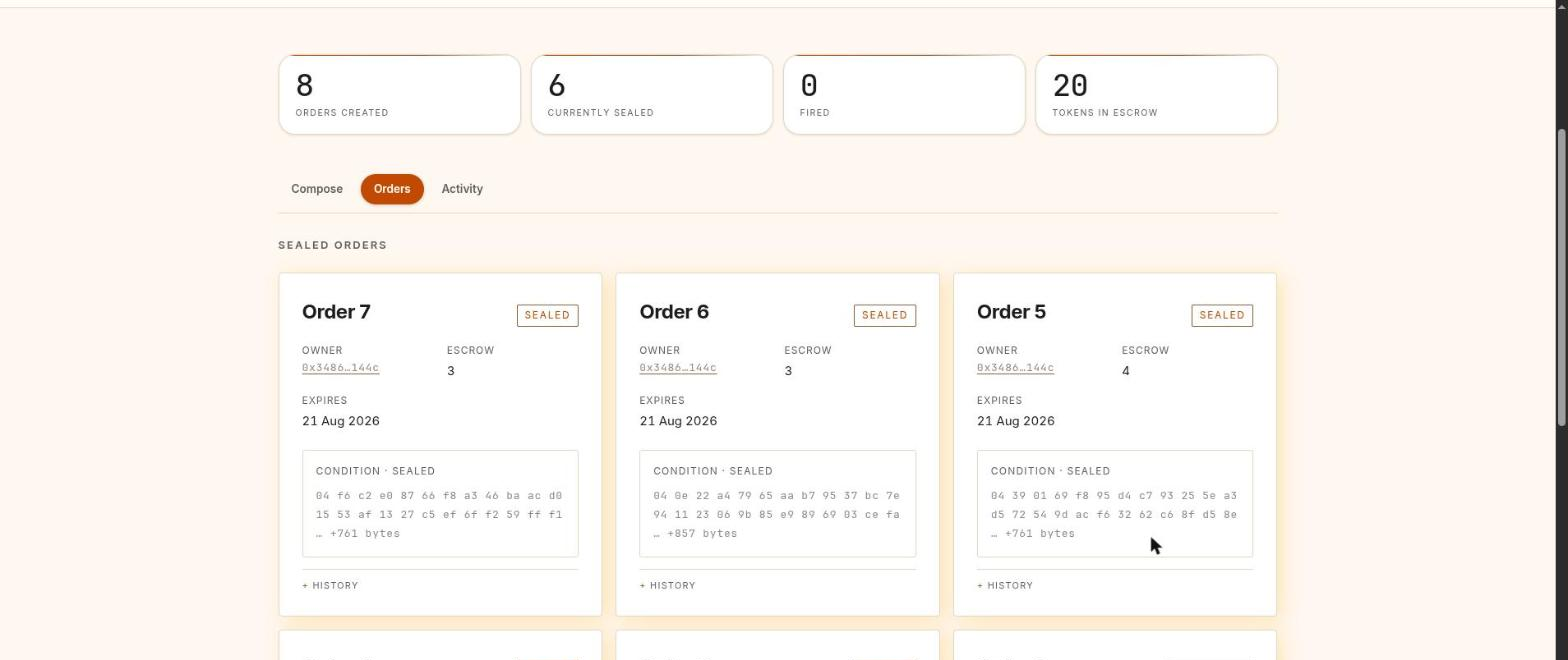
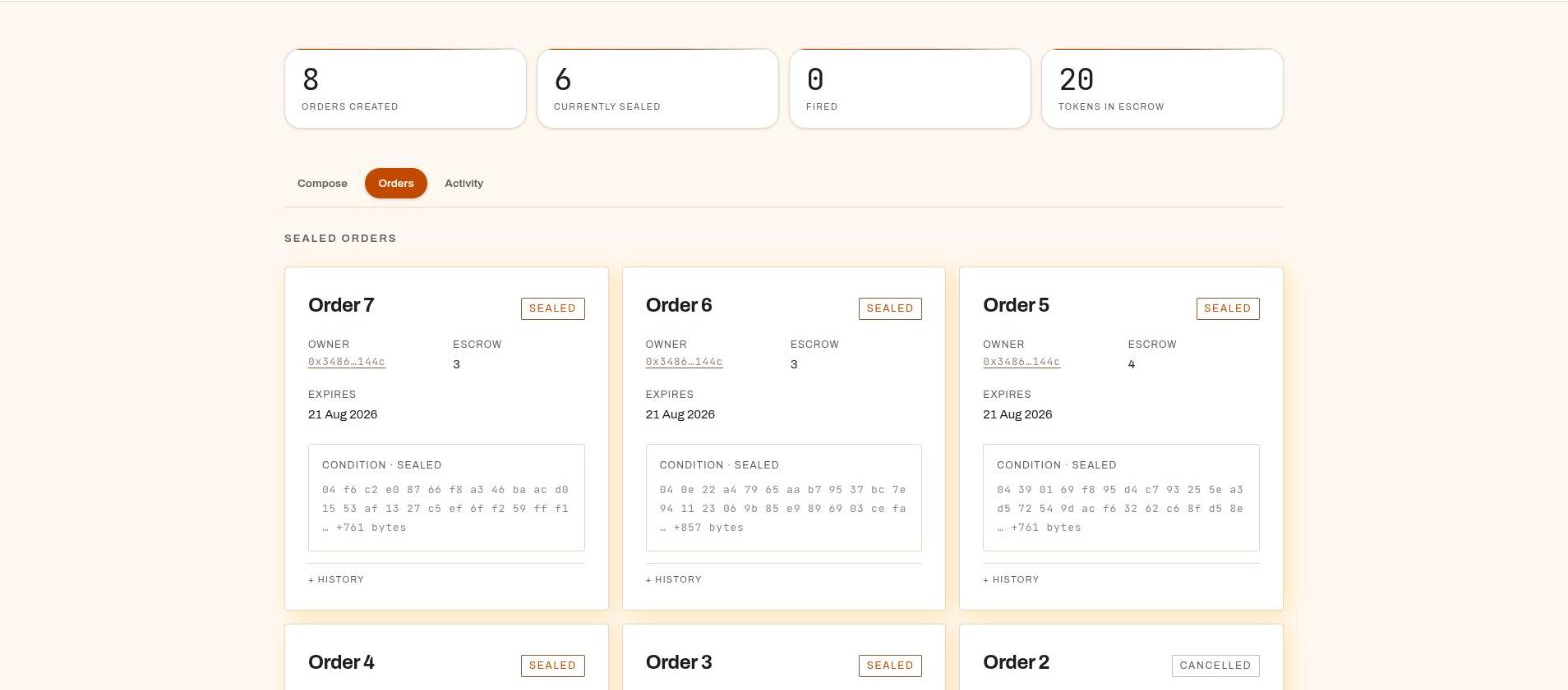
feat(frontend): use the live orders view as the hero shot, unframed
The hero screenshot is now the deployed /app/orders page: six sealed orders with
owner, escrow and expiry fully public and the condition present only as raw
ciphertext. That is the product's whole argument, and the composer could not
make it — its chart starts empty by design and fills only as a session runs, so
a fresh capture shows a blank plot.

Captured from production rather than the dev server, which is what removes the
Next.js dev-tools badge that was baked into the previous image.

The frame around it was a 1px #1a3a12 hairline — near-black green, chosen when
the shot inside was the dark product UI. Against a cream screenshot it read as a
stray outline rather than a frame, so it is a warm hairline with a warm-tinted
lift now. --m-forest had no other user and is gone.

diff --git a/frontend/app/globals.css b/frontend/app/globals.css
@@ -1981,7 +1981,6 @@ input:invalid:not(:placeholder-shown) {
   --m-marigold: #fee3b5;
   --m-parchment: #e3d6c5;
 
-  --m-forest: #1a3a12;
   /* Generated sunrise gradient, swapped in for the blue/teal sky. A thin dark
      wash sits under it so the white hero copy stays readable where the image
      itself runs light near the top edge — the image's own contrast is not
@@ -2202,13 +2201,18 @@ body:has(.m-root) .grain {
   z-index: 2;
 }
 
+/* The frame used to be a 1px dark-green hairline, drawn back when the shot
+   inside it was the dark product UI. The shot is the light orders view now, and
+   a near-black green outline around a cream image reads as a stray border
+   rather than a frame. Warm hairline and a warm-tinted lift instead: the card
+   floats, nothing outlines it. */
 .m-mock {
   display: block;
   width: 100%;
   height: auto;
-  border-radius: 18px;
-  border: 1px solid var(--m-forest);
-  box-shadow: var(--m-shadow-xl);
+  border-radius: var(--m-r-card);
+  border: 1px solid var(--m-hairline);
+  box-shadow: rgba(48, 38, 20, 0.18) 0px 24px 48px -12px, rgba(48, 38, 20, 0.08) 0px 8px 16px -8px;
 }
 
 /* --- protocol strip -------------------------------------------------------- */

diff --git a/frontend/app/page.tsx b/frontend/app/page.tsx
@@ -161,7 +161,7 @@ export default function Landing() {
             src="/product-shot.png"
             alt="The Wraith orders view: six sealed orders, each showing its escrow and expiry in the clear and its condition only as raw ciphertext"
             width={1568}
-            height={660}
+            height={690}
             priority
           />
         </div>
